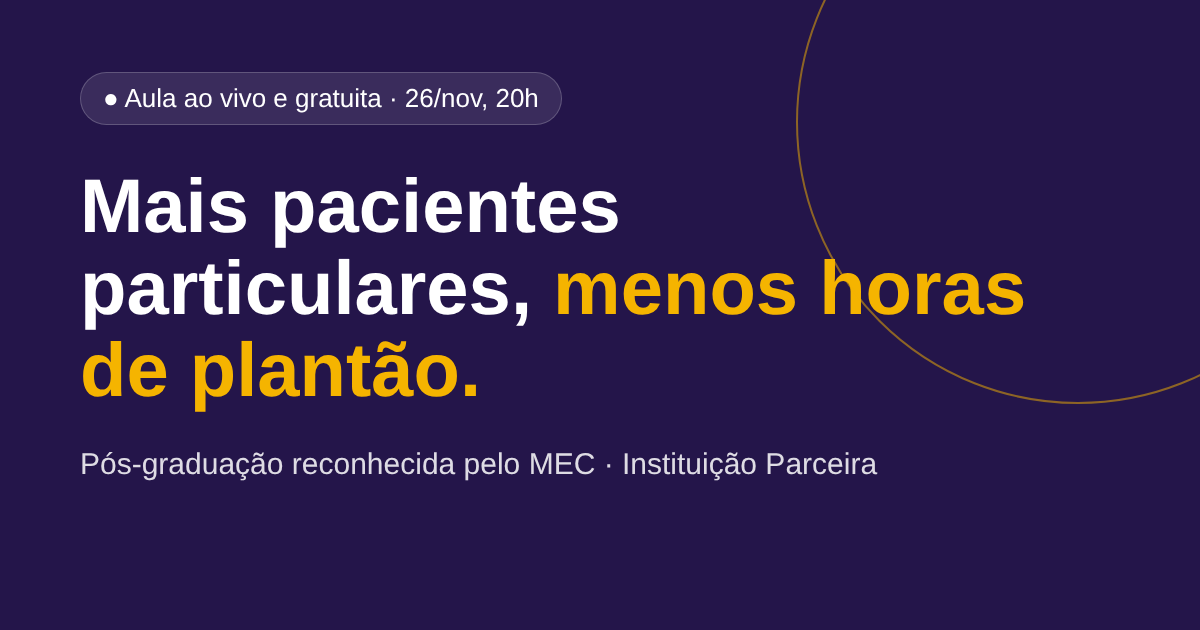
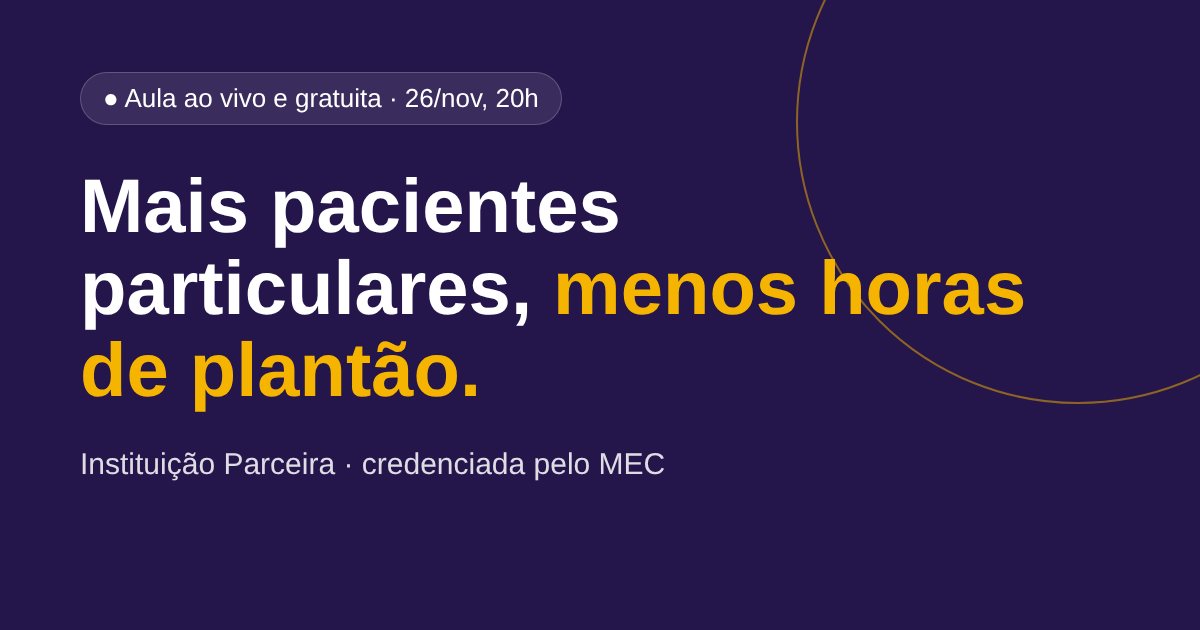
Ajusta redação sobre o MEC para instituição credenciada
Claude-Session: https://claude.ai/code/session_01ECgHnCZuyUTx4prU6eJgVJ

Changed region(s): [[0.0617, 0.6937, 0.74, 0.754]]

diff --git a/index.html b/index.html
@@ -4,13 +4,13 @@
 <meta charset="utf-8">
 <meta name="viewport" content="width=device-width, initial-scale=1, viewport-fit=cover">
 <title>Aula gratuita: pacientes particulares e agenda previsível | Dr. Henrique Valente</title>
-<meta name="description" content="Aula ao vivo para médicos sobre posicionamento, pacientes particulares e receita previsível. Pós-graduação reconhecida pelo MEC. Inscreva-se.">
+<meta name="description" content="Aula ao vivo para médicos sobre posicionamento, pacientes particulares e receita previsível. Certificado de instituição credenciada pelo MEC. Inscreva-se.">
 <meta name="robots" content="noindex, nofollow">
 <meta name="theme-color" content="#24154a">
 <meta property="og:type" content="website">
 <meta property="og:locale" content="pt_BR">
 <meta property="og:title" content="Aula gratuita: mais pacientes particulares, menos horas de plantão">
-<meta property="og:description" content="Aula ao vivo para médicos, quinta-feira, 26 de novembro, às 20h. Pós-graduação reconhecida pelo MEC.">
+<meta property="og:description" content="Aula ao vivo para médicos, quinta-feira, 26 de novembro, às 20h. Pós-graduação de instituição credenciada pelo MEC.">
 <meta property="og:url" content="https://josielsn93.github.io/case-vitru-landing/">
 <meta property="og:image" content="https://josielsn93.github.io/case-vitru-landing/og-image.png">
 <meta property="og:image:width" content="1200">
@@ -40,7 +40,7 @@
     {
       "@type": "Course",
       "name": "Pós-Graduação em Posicionamento Médico",
-      "description": "Pós-graduação EAD de 360 horas, com certificação reconhecida pelo MEC.",
+      "description": "Pós-graduação EAD de 360 horas, com certificado emitido por instituição credenciada pelo MEC.",
       "provider": { "@type": "Organization", "name": "Instituição Parceira (fictícia)" }
     },
     {
@@ -49,7 +49,7 @@
         { "@type": "Question", "name": "A aula é paga?", "acceptedAnswer": { "@type": "Answer", "text": "Não. A aula é gratuita. Nela, o especialista apresenta a pós e as condições, incluindo parcelamento em até 12x." } },
         { "@type": "Question", "name": "Não tenho tempo. Consigo acompanhar?", "acceptedAnswer": { "@type": "Answer", "text": "Sim. A aula dura 90 minutos, à noite, e o replay fica disponível por 48 horas para inscritos. A pós é EAD." } },
         { "@type": "Question", "name": "Já comprei curso online e não apliquei. Por que seria diferente?", "acceptedAnswer": { "@type": "Answer", "text": "A aula mostra aplicação prática, com exemplos de rotina de consultório, e não só conteúdo." } },
-        { "@type": "Question", "name": "A pós-graduação é reconhecida pelo MEC?", "acceptedAnswer": { "@type": "Answer", "text": "Sim. É uma pós-graduação de 360 horas, com certificação reconhecida pelo MEC, emitida pela instituição parceira." } }
+        { "@type": "Question", "name": "O certificado da pós-graduação é válido?", "acceptedAnswer": { "@type": "Answer", "text": "Sim. É uma especialização de 360 horas, com certificado válido em todo o país, emitido pela instituição parceira, credenciada pelo MEC." } }
       ]
     }
   ]
@@ -412,7 +412,7 @@
           <li><svg width="16" height="16" viewBox="0 0 16 16" aria-hidden="true"><path d="M3 8.5l3 3 7-7" stroke="#f5b400" stroke-width="2" fill="none" stroke-linecap="round" stroke-linejoin="round"/></svg>Mais de 12 mil alunos em outros programas</li>
           <li><svg width="16" height="16" viewBox="0 0 16 16" aria-hidden="true"><path d="M3 8.5l3 3 7-7" stroke="#f5b400" stroke-width="2" fill="none" stroke-linecap="round" stroke-linejoin="round"/></svg>350 mil seguidores no Instagram</li>
         </ul>
-        <div class="selo-mec"><span class="logo-parceira" aria-hidden="true">IP</span>Pós-graduação reconhecida pelo MEC</div>
+        <div class="selo-mec"><span class="logo-parceira" aria-hidden="true">IP</span>Instituição credenciada pelo MEC</div>
       </div>
       <div class="hero-visual" aria-hidden="true">
         <div style="background:rgba(255,255,255,.06);border:1px solid rgba(255,255,255,.14);border-radius:18px;padding:22px">
@@ -475,7 +475,7 @@
         <div class="bio-numeros">
           <div class="numero"><strong>12 mil</strong><span>alunos em outros programas</span></div>
           <div class="numero"><strong>360 h</strong><span>de pós-graduação EAD</span></div>
-          <div class="numero"><strong>MEC</strong><span>certificação reconhecida</span></div>
+          <div class="numero"><strong>MEC</strong><span>instituição credenciada</span></div>
         </div>
       </div>
     </section>
@@ -617,7 +617,7 @@
         <details><summary>A aula é paga?</summary><p>Não. A aula é gratuita. Nela, o especialista apresenta a pós e as condições, incluindo parcelamento em até 12x.</p></details>
         <details><summary>Não tenho tempo. Consigo acompanhar?</summary><p>Sim. A aula dura 90 minutos, à noite, e o replay fica disponível por 48 horas para inscritos. A pós é EAD.</p></details>
         <details><summary>Já comprei curso online e não apliquei. Por que seria diferente?</summary><p>A aula mostra aplicação prática, com exemplos de rotina de consultório, e não só conteúdo.</p></details>
-        <details><summary>A pós-graduação é reconhecida pelo MEC?</summary><p>Sim. É uma pós-graduação de 360 horas, com certificação reconhecida pelo MEC, emitida pela instituição parceira.</p></details>
+        <details><summary>O certificado da pós-graduação é válido?</summary><p>Sim. É uma especialização de 360 horas, com certificado válido em todo o país, emitido pela instituição parceira, credenciada pelo MEC.</p></details>
         <div style="margin-top:24px;max-width:360px"><a href="#formulario" class="btn btn-primario" data-cta="faq">Quero minha vaga na aula</a></div>
       </div>
     </section>
@@ -685,7 +685,7 @@
       <a href="#" id="abrir-cookies">Preferências de cookies</a>
       <a href="mailto:contato@exemplo.com">Contato</a>
     </nav>
-    <p style="margin:0">Instituição Parceira (fictícia) · CNPJ 00.000.000/0001-00 · Pós-graduação reconhecida pelo MEC.</p>
+    <p style="margin:0">Instituição Parceira (fictícia) · CNPJ 00.000.000/0001-00 · Instituição credenciada pelo MEC.</p>
     <p style="margin:6px 0 0">Protótipo do case de processo seletivo, por Josiel Silvério. Nenhum dado digitado sai deste navegador.</p>
   </div>
 </footer>
